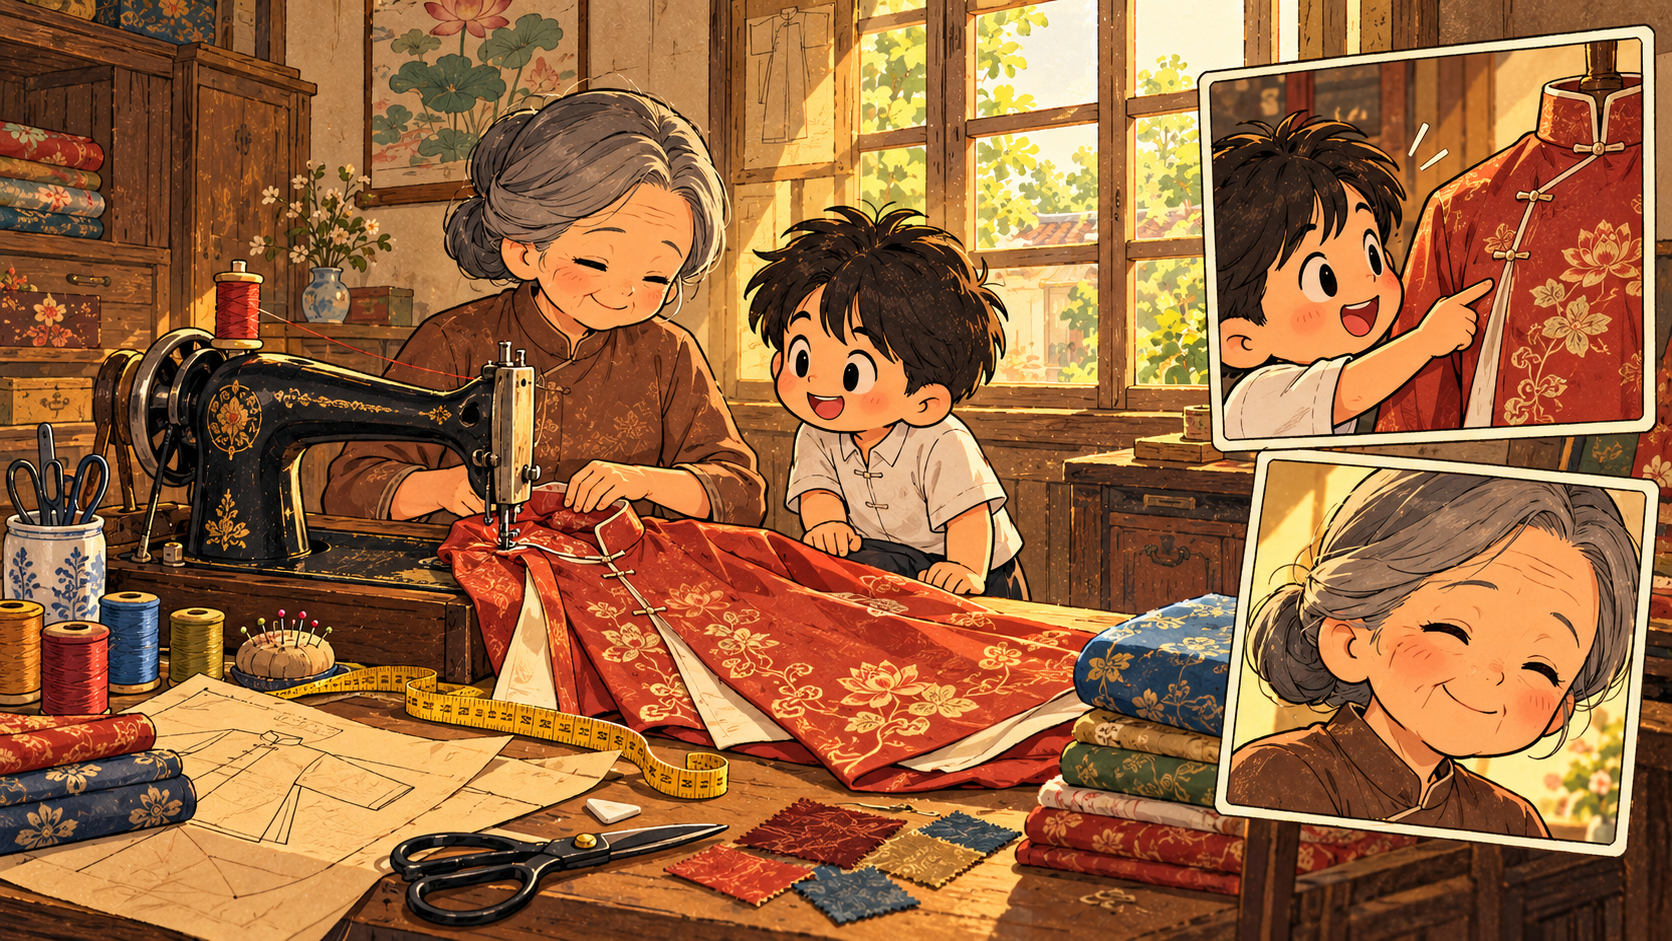
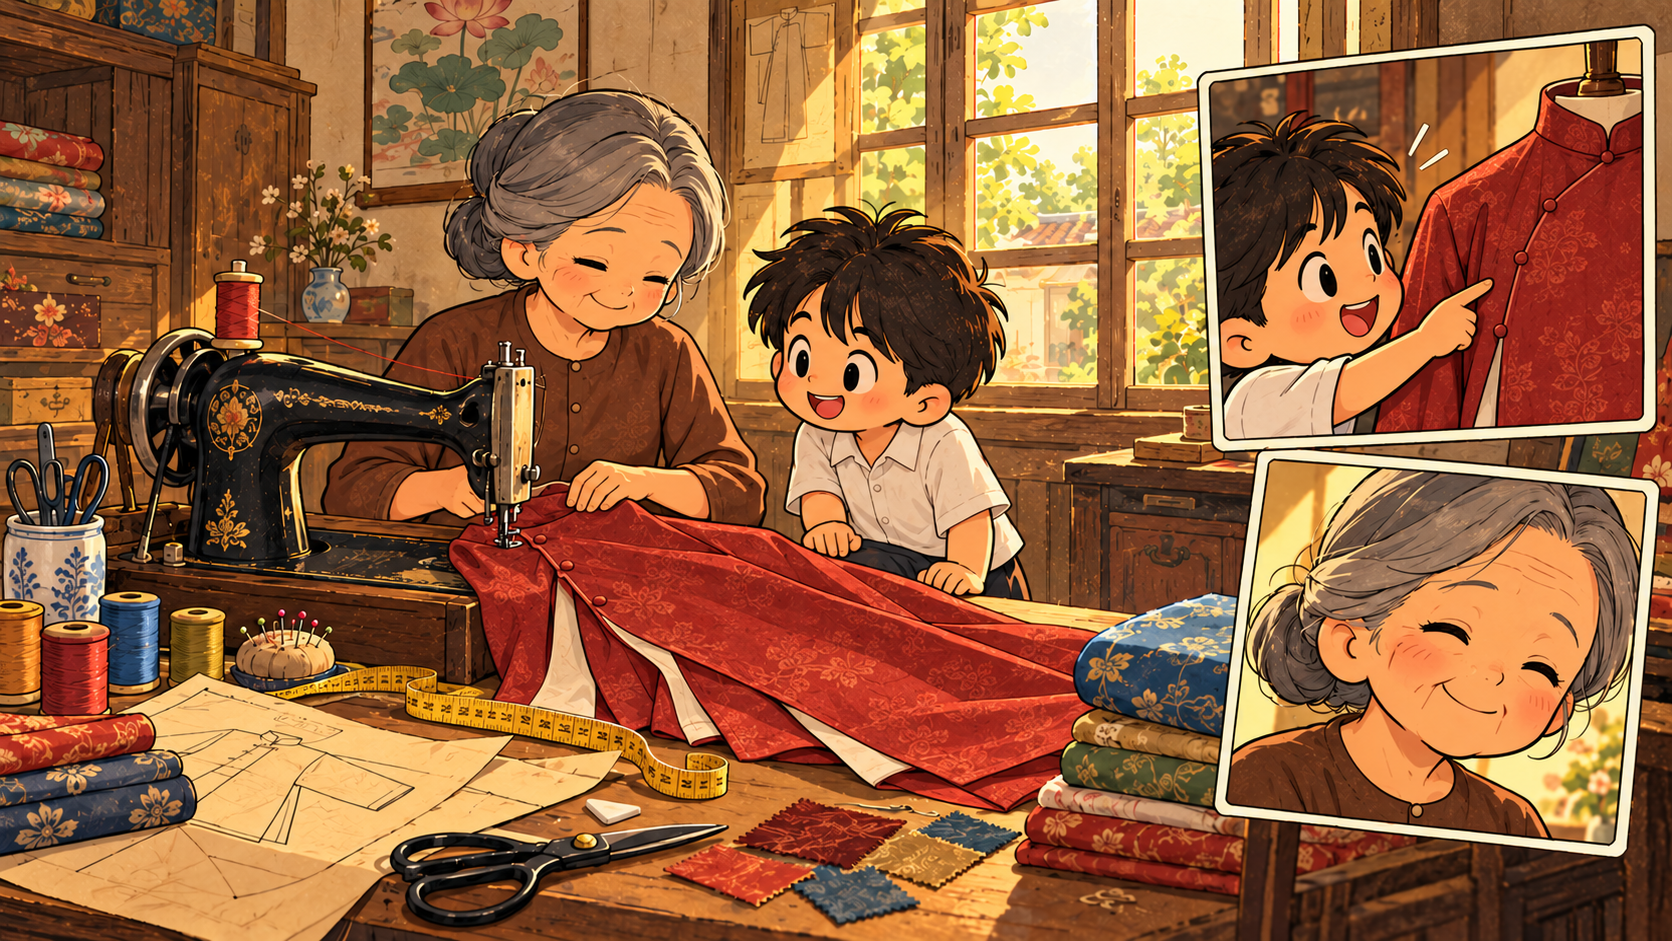
Opening S05 and S08 recreated without Chinese elements
S05: no knotted frog buttons on any garment; the red garment follows the áo
ngũ thân structure (low standing collar, closing diagonally to the right),
Bà wears an áo cánh, Tí a turn-down-collar shirt. Same composition.
S08: notebook cover matches title-page.png, curved-roof pagoda removed; the
áo dài on the dress form and in the framed photo have no frog buttons.
The title overlay still sits inside the label. OPENING_PLAN status updated;
content reviewer sign-off against Research 6.2 still pending.

Refs #7

diff --git a/frontend/docs/OPENING_PLAN.md b/frontend/docs/OPENING_PLAN.md
@@ -21,10 +21,10 @@ Tên file ảnh đang lệch số với kịch bản (không có Screen-6, có S
 | S02 "Tại sao?" | Screen-2.png | Cùng lớp học, 3 bong bóng ý nghĩ (áo dài, nón lá, dải lụa), cut-in Tí | Khung cảnh trùng S01 → dùng được cú "match cut" |
 | S03 Một Việt Nam mình chưa biết | Screen-3.png | Laptop, 6 card trang phục, 3 cut-in Tí | Card nào là trang phục nào cần B xác nhận để làm spotlight đúng tên |
 | S04 Chiếc áo màu xanh | Screen-4.png | Đêm, đèn bàn, laptop áo dài xanh, cut-in mắt Tí | – |
-| S05 Tiếng máy may | Screen-5.png | Bà may áo, Tí nhỏ, 2 cut-in | ⚠ Áo đỏ trên ma-nơ-canh (cut-in) có khuy tết kiểu áo Tàu – cần đối chiếu cấu trúc áo ngũ thân (Research 6.2) hoặc tạo lại |
+| S05 Tiếng máy may | Screen-5.png | Bà may áo, Tí nhỏ, 2 cut-in | ✅ Đã tạo lại (29/09): bỏ khuy tết trên mọi áo; áo đỏ theo cấu trúc áo ngũ thân, Bà mặc áo cánh, Tí mặc sơ mi cổ bẻ. Chờ người phụ trách nội dung đối chiếu Research 6.2 |
 | S06 "Chúng còn để nhớ" | Screen-7.png | Bà trẻ áo dài xanh, bà già cất áo vào hộp, Tí nhỏ; nửa phải là khoảng trống | Khoảng trống bên phải rất hợp để đặt 4 câu thoại |
 | S07 Căn nhà cũ | Screen-8.png | Ba nhịp ngang: cổng → phòng may → hộp gỗ | Bố cục ngang → dùng camera pan thay cho parallax 3 lớp |
-| S08 Việt Phục Du Ký | Screen-9.png | Tí cầm cuốn sổ, ô nhãn trống, cut-in chỉ thêu | ⚠ Bìa khác title-page (bố cục khác, có một ngôi chùa mái cong kiểu Trung Hoa ở góc). Nên tạo lại dùng title-page làm ảnh tham chiếu để liền mạch và tránh yếu tố Fusion |
+| S08 Việt Phục Du Ký | Screen-9.png | Tí cầm cuốn sổ, ô nhãn trống, cut-in chỉ thêu | ✅ Đã tạo lại (29/09): bìa khớp title-page, bỏ chùa mái cong; áo trên ma-nơ-canh và trong khung ảnh là áo dài, không khuy tết. Chờ người phụ trách nội dung xác nhận |
 | S09 Những trang chưa viết xong | Screen-10.png | Sách mở: 4 phác thảo vùng + trang trống bên phải, sợi chỉ vàng | – |
 | S10 Hành trình bắt đầu | Screen-11.png | Vòng xoáy giấy/vải, Tí cầm bookmark, làng hội Kinh Bắc | – |
 | Bìa sách chính | page/title-page.png | Bìa vải chàm tách nền, ô nhãn trống | ✅ Đã gắn vào web |
